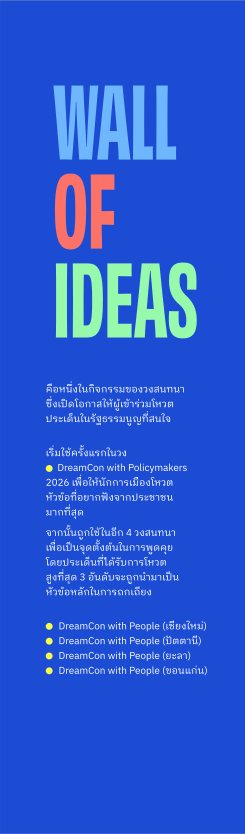
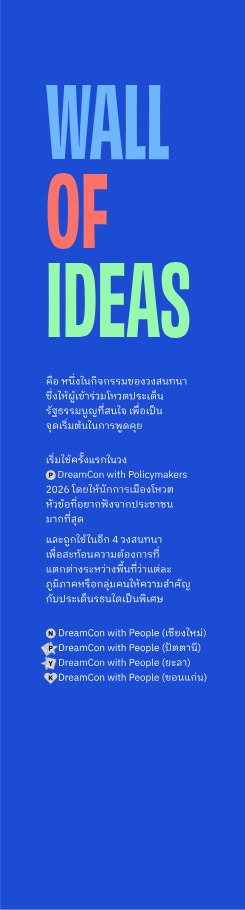
Right wall from Frame 1926: band on top, Wall of Ideas boards below, printed end panels; frames 1.1/4.65/1.42
Claude-Session: https://claude.ai/code/session_01So5ou2ovecxAT6dMZ5tLht

Changed region(s): [[0.1714, 0.0935, 0.8571, 0.8106], [0.0, 0.9976, 1.0, 1.0]]

diff --git a/index.html b/index.html
@@ -419,7 +419,7 @@ kbd{font-family:var(--mono);font-size:11px;background:var(--surface-2);border:1p
   "three/addons/": "https://cdn.jsdelivr.net/npm/three@0.160.0/examples/jsm/"
 } }
 </script>
-<script>window.ASSETS={poster:"assets/poster.jpg",keynote:"assets/keynote.jpg",talk:"assets/talk.jpg",exhibition:"assets/exhibition.jpg",showcase:"assets/showcase.jpg",plan:"assets/plan.jpg",walls:{L_logos:"assets/wL_logos.jpg",L_banner:"assets/wL_banner.jpg",L_blue:"assets/wL_blue.jpg",L_yellow:"assets/wL_yellow.jpg",L_p1:"assets/wL_p1.jpg",L_p2:"assets/wL_p2.jpg",L_p3:"assets/wL_p3.jpg",L_p4:"assets/wL_p4.jpg",L_p5:"assets/wL_p5.jpg",R_events:"assets/wR_events.jpg",R_band:"assets/wR_band.jpg",R_ideas_title:"assets/wR_ideas_title.jpg",R_strip_top:"assets/wR_strip_top.jpg",R_strip_low:"assets/wR_strip_low.jpg",R_arguments:"assets/wR_arguments.jpg",R_ideas:"assets/ideas.jpeg"}};</script>
+<script>window.ASSETS={poster:"assets/poster.jpg",keynote:"assets/keynote.jpg",talk:"assets/talk.jpg",exhibition:"assets/exhibition.jpg",showcase:"assets/showcase.jpg",plan:"assets/plan.jpg",walls:{L_logos:"assets/wL_logos.jpg",L_banner:"assets/wL_banner.jpg",L_blue:"assets/wL_blue.jpg",L_yellow:"assets/wL_yellow.jpg",L_p1:"assets/wL_p1.jpg",L_p2:"assets/wL_p2.jpg",L_p3:"assets/wL_p3.jpg",L_p4:"assets/wL_p4.jpg",L_p5:"assets/wL_p5.jpg",R_events:"assets/wR_events.jpg",R_band:"assets/wR_band.jpg",R_ideas_title:"assets/wR_ideas_title.jpg",R_strip_top:"assets/wR_strip_top.jpg",R_strip_low:"assets/wR_strip_low.jpg",R_arguments:"assets/wR_arguments.jpg",R_end_l:"assets/wR_end_l.jpg",R_end_r:"assets/wR_end_r.jpg",R_ideas:"assets/ideas.jpeg"}};</script>
 <script type="module">
 import * as THREE from 'three';
 import { OrbitControls } from 'three/addons/controls/OrbitControls.js';
@@ -867,7 +867,7 @@ function commit(){ const s=snapshot(); if(past[past.length-1]!==s){ past.push(s)
 function loadModules(arr){ S.modules = arr.map(m=>({ ...m, prints:m.prints||{} })); nextId = Math.max(1, ...S.modules.map(m=>m.id+1)); rebuildAll(); }
 function undo(){ if(past.length<2) return; future.push(past.pop()); loadModules(JSON.parse(past[past.length-1]).modules); persist(); updateDerived(); toast('Undone'); }
 function redo(){ if(!future.length) return; const s=future.pop(); past.push(s); loadModules(JSON.parse(s).modules); persist(); updateDerived(); toast('Redone'); }
-const KEY='dreamcon-composer-v42';
+const KEY='dreamcon-composer-v43';
 function persist(){ const uploads=LIB.filter(g=>g.user).map(({id,label,src})=>({id,label,src})); const data={ modules:JSON.parse(snapshot()).modules, tube:S.tube, bricks:B, uploads }; if(!store.set(KEY,data)){ data.uploads=[]; store.set(KEY,data); } }
 
 /* ---------------- default proposal ---------------- */
@@ -901,13 +901,17 @@ const WALLS = (()=>{ const T=WALL_Y0+WALL_H; let posts=[];
   const L = { cells:[1.8,1.8,1.2], rails:[[yA,0,1.8],[yB,0,1.8]], part:[[0.9,WALL_Y0,yB]], prints:[
       cell('logos',0,1.8,yA,T), cell('banner',0,1.8,yB,yA), cell('blue',0,0.9,WALL_Y0,yB), cell('yellow',0.9,1.8,WALL_Y0,yB),
       ...split(['p1','p2','p3'],1.8,3.6,WALL_Y0,T), ...split(['p4','p5'],3.6,4.8,WALL_Y0,T) ] };
-  const tw=0.45, iw=(5-tw)/7, yR=WALL_Y0+0.875;
-  setPosts([1.0+tw,7*iw,1.3]);
-  const R = { cells:[1.0+tw,7*iw,1.3], rails:[[yR,0,6.0]], part:[], prints:[
-      cell('band',0,6.0,WALL_Y0,yR), cell('events',0,1.0,yR,T), cell('ideas_title',1.0,1.0+tw,yR,T), cell('arguments',6.3,7.3,WALL_Y0,T)] };
-  R.ideas = { s:[...Array(7)].map((_,k)=>1.0+tw+k*iw+0.002), w:IDEA_BOARD.w, h:IDEA_BOARD.h, top:T, angle:40 };
-  R.strip = { s0:6.0, s1:6.3, shelf:WALL_Y0+0.8, depth:0.35, low:WALL_Y0 };
-  R.monitor = { item:'arguments', cs:6.3+0.70, cy:1.30, w:0.423, h:0.253, t:0.013 };
+  /* right wall (Frame 1926): 17 EVENTS full height | timeline band on top, Wall of Ideas title + 7 angled boards below it | Message strip + ARGUMENTS
+     frames sized round the prints: 1100 · 4650 · 1420, standards only on the frame lines */
+  const e=PRINT_TUBE/2+PRINT_INSET, yR=T-0.7, F1=1.1, F2=4.65, F3=1.42, f2=F1, f3=F1+F2, f4=F1+F2+F3;
+  setPosts([F1,F2,F3]);
+  const [lc,ld]=printSpan(WALL_Y0,yR), [fc,fd]=printSpan(WALL_Y0,T);
+  const R = { cells:[F1,F2,F3], rails:[[yR,f2,f3]], part:[], prints:[
+      cell('events',0,F1,WALL_Y0,T), cell('band',f2,f3,yR,T), ['ideas_title',f2+e,f2+e+0.35,lc,ld], ['arguments',f4-e-1.0,f4-e,fc,fd]] };
+  R.ideas = { s:[...Array(7)].map((_,k)=>f2+e+0.402+0.6*k), w:IDEA_BOARD.w, h:IDEA_BOARD.h, top:yR-0.03, hang:yR, angle:50 };
+  R.strip = { s0:f3+e, s1:f3+e+0.3, shelf:WALL_Y0+0.8, depth:0.35, low:WALL_Y0, topH:1.15 };
+  R.monitor = { item:'arguments', cs:f4-e-0.5+0.30, cy:1.25, w:0.423, h:0.253, t:0.013 };
+  R.ends = ['R_end_l','R_end_r'];
   return { L, R }; })();
 function wallGeom(id){ const W=WALLS[id]; const cw=W.cells; const ang=cw.map(w=>2*Math.asin(w/2/WALL_RF)/DEG); const total=ang.reduce((a,b)=>a+b,0);
   const half=(WALL_GAP/2)/WALL_RF/DEG, gapAt=WALL_GAP_AT+(B.rotWalls||0); const start= id==='R' ? gapAt-half : gapAt+half+total;
@@ -963,20 +967,22 @@ function buildWallArt(){ layers.lights=[]; while(wallArtRoot.children.length) wa
         const bk=new THREE.Mesh(geo,backMat); bk.position.copy(p.position); bk.position.z-=0.004; bk.rotation.y=Math.PI; frames[i].add(bk); } };
     for(const [key,s0,s1,yb,yt] of W.prints) flat(key,s0,s1,yb,yt);
     // grey ends
-    for(const [i,k] of [[0,0],[n-1,1]]){ const F=g.front[i+k], P=g.backs[i][k]; const e=new THREE.Mesh(new THREE.PlaneGeometry(WALL_D,WALL_H), new THREE.MeshStandardMaterial({ color:'#D9D9D9', roughness:0.9, side:THREE.DoubleSide }));
-      e.position.set((F[0]+P[0])/2,(yTop+yBot)/2,(F[1]+P[1])/2); e.rotation.y=Math.atan2(-(P[1]-F[1]),P[0]-F[0]); wallArtRoot.add(e); }
+    for(const [i,k] of [[0,0],[n-1,1]]){ const F=g.front[i+k], P=g.backs[i][k]; const ek=W.ends&&W.ends[k];   /* printed end panels where the art has them, plain grey otherwise */
+      const e=new THREE.Mesh(new THREE.PlaneGeometry(WALL_D,WALL_H), ek? new THREE.MeshStandardMaterial({ map:wallTex(ek), roughness:0.85, side:THREE.DoubleSide }) : new THREE.MeshStandardMaterial({ color:'#D9D9D9', roughness:0.9, side:THREE.DoubleSide }));
+      e.position.set((F[0]+P[0])/2,(yTop+yBot)/2,(F[1]+P[1])/2); e.rotation.y=Math.atan2(-(P[1]-F[1]),P[0]-F[0]); if(ek && k===0) e.scale.x=-1;   /* the left end is seen from its other face */
+      wallArtRoot.add(e); }
     // Wall of Ideas: A1 panels set at 40° into the scaffold, sawtooth
     if(W.ideas){ const I=W.ideas, th=I.angle*DEG, mat=new THREE.MeshStandardMaterial({ map:wallTex('R_ideas'), roughness:0.8 });
       for(const s of I.s){ const { f, lx }=local(s+0.001), hg=new THREE.Group(); hg.position.set(lx-0.001,0,0); hg.rotation.y=th; f.add(hg);
         const bd=new THREE.Mesh(new THREE.PlaneGeometry(I.w,I.h),new THREE.MeshStandardMaterial({ color:'#F4F4F2', roughness:0.9 })); bd.position.set(I.w/2,I.top-I.h/2,0); bd.castShadow=true; bd.receiveShadow=true; hg.add(bd);
         const p=new THREE.Mesh(new THREE.PlaneGeometry(A0.w,A0.h),mat); p.position.set(I.w/2,I.top-I.h/2,0.001); hg.add(p);
         const b=new THREE.Mesh(new THREE.PlaneGeometry(I.w,I.h),backMat); b.position.copy(p.position); b.position.z-=0.004; b.rotation.y=Math.PI; hg.add(b);
-        const bar=new THREE.Mesh(tubeGeo,steel); bar.scale.set(tubeR*0.6,I.w,tubeR*0.6); bar.rotation.z=Math.PI/2; bar.position.set(I.w/2,I.top+0.03,-0.01); hg.add(bar);
-        for(const x of [0.05,I.w-0.05]){ const w=new THREE.Mesh(tubeGeo,steel); w.scale.set(0.003,yTop-I.top-0.03,0.003); w.position.set(x,(yTop+I.top+0.03)/2,-0.01); hg.add(w); } } }
+        const hy=I.hang||yTop; const bar=new THREE.Mesh(tubeGeo,steel); bar.scale.set(tubeR*0.6,I.w,tubeR*0.6); bar.rotation.z=Math.PI/2; bar.position.set(I.w/2,I.top+0.015,-0.01); hg.add(bar);
+        for(const x of [0.05,I.w-0.05]){ const w=new THREE.Mesh(tubeGeo,steel); w.scale.set(0.003,Math.max(0.01,hy-I.top-0.015),0.003); w.position.set(x,(hy+I.top+0.015)/2,-0.01); hg.add(w); } } }
     // Message to the Parliament: full-height strip, shelf with a stack of 400 postcards, panel hung below the shelf
     if(W.strip){ const T=W.strip, sw=T.s1-T.s0, { f, lx }=local((T.s0+T.s1)/2), blue=new THREE.MeshStandardMaterial({ color:'#1C4CD3', roughness:0.8 });
       const back=new THREE.Mesh(new THREE.PlaneGeometry(sw-0.01,WALL_H),blue); back.position.set(lx,(yBot+yTop)/2,Z); f.add(back);
-      const top=new THREE.Mesh(new THREE.PlaneGeometry(sw-0.01,1.05),new THREE.MeshStandardMaterial({ map:wallTex('R_strip_top'), roughness:0.85 })); top.position.set(lx,yTop-0.05-0.525,Z+0.001); f.add(top);
+      const tH=T.topH||1.05; const top=new THREE.Mesh(new THREE.PlaneGeometry(sw-0.01,tH),new THREE.MeshStandardMaterial({ map:wallTex('R_strip_top'), roughness:0.85 })); top.position.set(lx,yTop-0.05-tH/2,Z+0.001); f.add(top);
       const D=T.depth, shelf=new THREE.Mesh(new THREE.BoxGeometry(sw,0.02,D),blue); shelf.position.set(lx,T.shelf-0.01,Z+D/2); shelf.castShadow=true; shelf.receiveShadow=true; f.add(shelf);
       const low=new THREE.Mesh(new THREE.PlaneGeometry(sw,T.shelf-T.low-0.02),new THREE.MeshStandardMaterial({ map:wallTex('R_strip_low'), roughness:0.85 })); low.position.set(lx,(T.shelf-0.02+T.low)/2,Z+D); low.castShadow=true; f.add(low);
       const lowB=new THREE.Mesh(low.geometry,blue); lowB.position.copy(low.position); lowB.position.z-=0.004; lowB.rotation.y=Math.PI; f.add(lowB);
